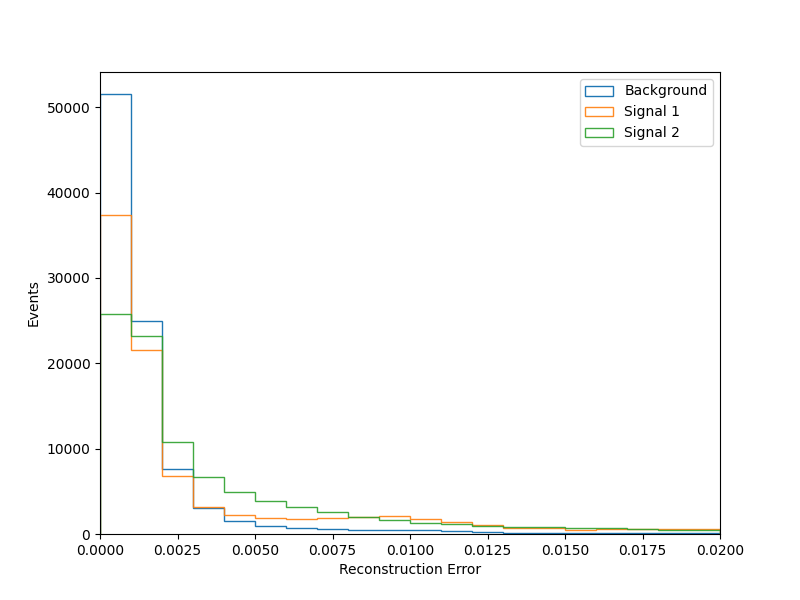
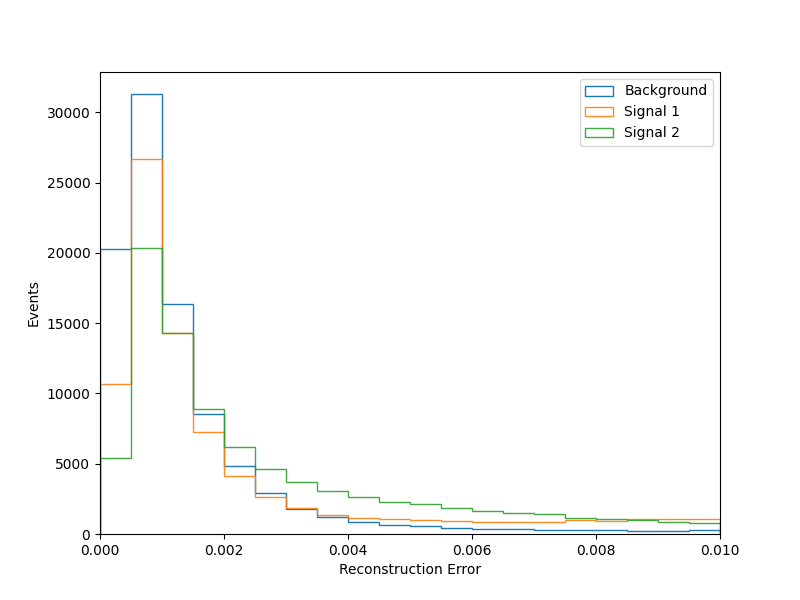
Testing with minmax scaling and 84, 14 layer dimensions

diff --git a/test.py b/test.py
@@ -131,12 +131,12 @@ loss_sig2_total = loss_sig2.sum(axis=1) / 42
 # Plot Total Reconstruction Error
 nbins = 20
 fig, axes = plt.subplots(figsize=(8,6))
-axes.hist([loss_bkg_total], nbins, range=(0, 0.02), density=0, histtype='step', label=['Background'], stacked=True, alpha=1)
-axes.hist([loss_sig1_total], nbins, range=(0, 0.02), density=0, histtype='step', label=['Signal 1'], stacked=True, alpha=0.9)
-axes.hist([loss_sig2_total], nbins, range=(0, 0.02), density=0, histtype='step', label=['Signal 2'], stacked=True, alpha=0.9)
+axes.hist([loss_bkg_total], nbins, range=(0, 0.01), density=0, histtype='step', label=['Background'], stacked=True, alpha=1)
+axes.hist([loss_sig1_total], nbins, range=(0, 0.01), density=0, histtype='step', label=['Signal 1'], stacked=True, alpha=0.9)
+axes.hist([loss_sig2_total], nbins, range=(0, 0.01), density=0, histtype='step', label=['Signal 2'], stacked=True, alpha=0.9)
 axes.set_xlabel(r"Reconstruction Error")
 axes.set_ylabel("Events")
-axes.set_xlim(0, 0.02)
+axes.set_xlim(0, 0.01)
 axes.legend(loc='upper right')
 fig.savefig(f"figs/testing/reconstruction_error_{scale}_{mid_dim}_{latent_dim}.png")
 
